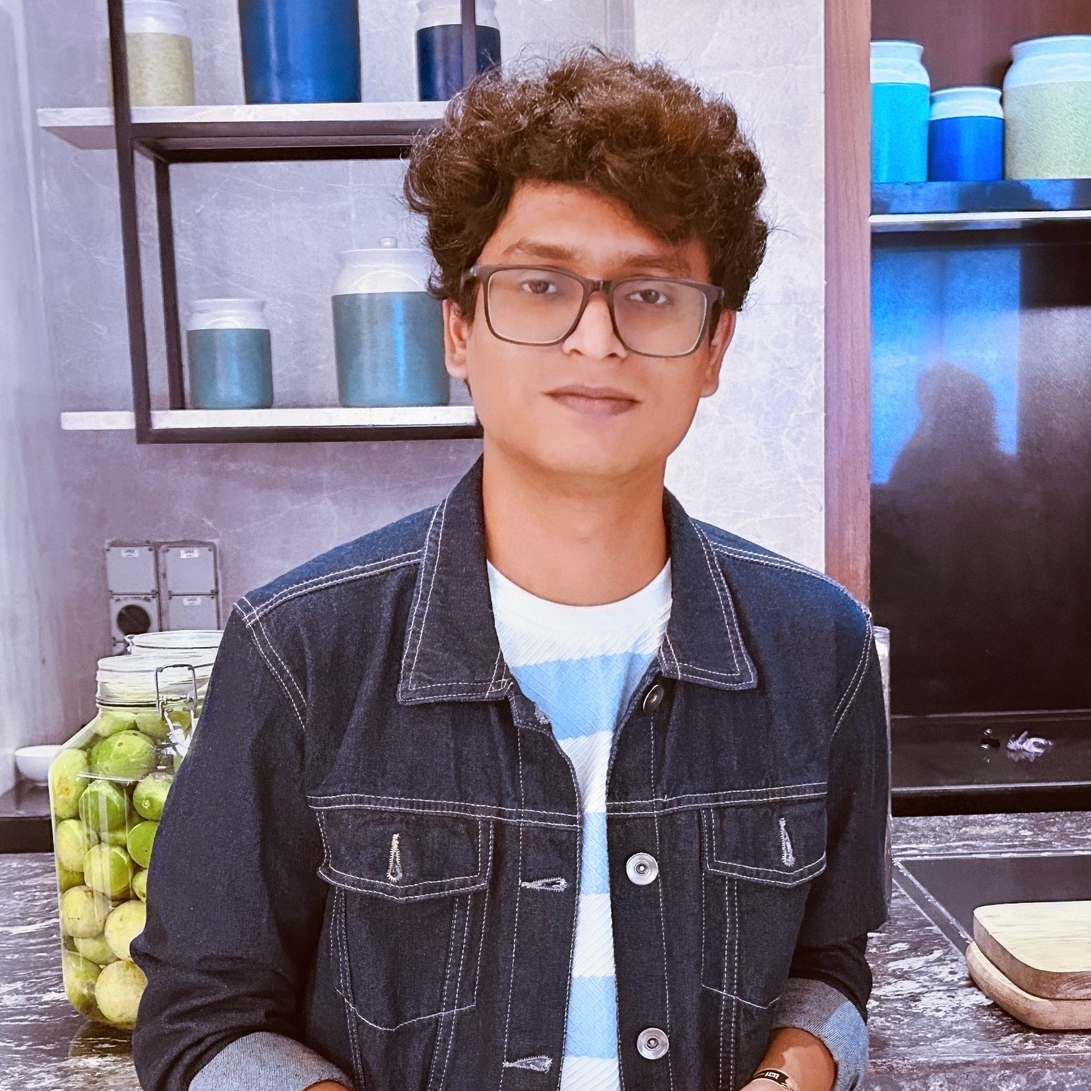
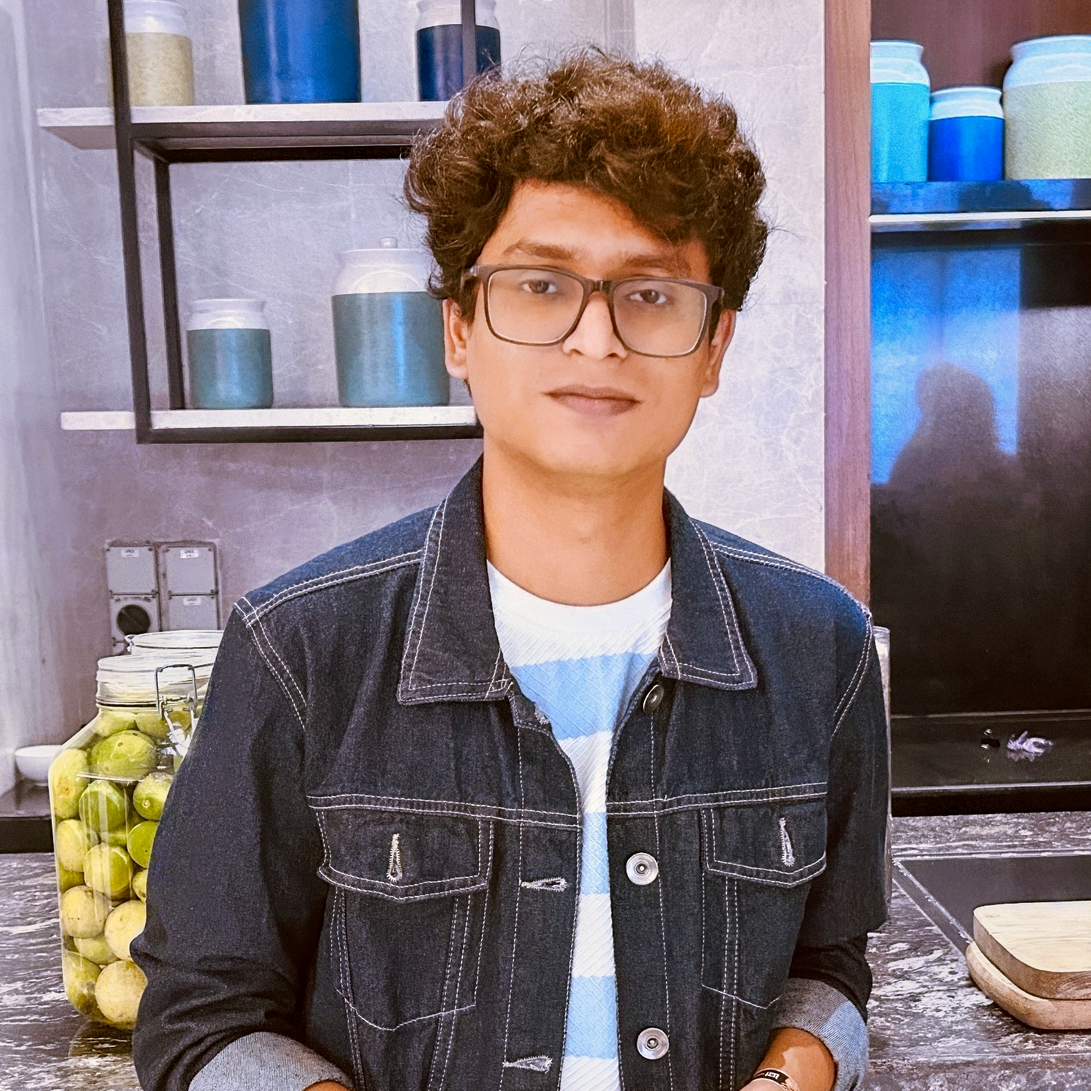
Added projects and edited profile pic

Changed region(s): [[0.0619, 0.7119, 0.1548, 0.8358], [0.8048, 0.0619, 0.8667, 0.1857], [0.7738, 0.2476, 0.8358, 0.3095]]

diff --git a/src/cardData.js b/src/cardData.js
@@ -1,31 +1,22 @@
 export const cardData = [
   {
-    heading: "Spider Man: Miles Morales",
+    heading: "Messenger",
     content:
-      "This is a good alien. You can choose this alien when the enemy is very strong. No one can face him. He is literally invincible.",
-    imgSrc: "/ProjectsPics/spiderman.jpg",
-    tags: ["React", "JS", "Front-End"],
-    isOnline: true,
-    git: "#",
-    access: "https://www.google.co.in",
-  },
-  {
-    heading: "GTA VI Best Game",
-    content:
-      "Another strong alien. This one is perfect for stealth missions and can easily take down enemies without making a sound.",
-    imgSrc: "/ProjectsPics/gta6.jpg",
-    tags: ["Node.js", "Backend", "API"],
-    isOnline: true,
-    git: "#",
-    access: "#",
-  },
-  {
-    heading: "House of the Dragon",
-    content: "A versatile alien.",
-    imgSrc: "/ProjectsPics/hotd.jpg",
-    tags: ["Python", "Data Science", "AI"],
+      "It is a full-stack, real-time messaging application designed for seamless and intuitive communication.",
+    imgSrc: "/ProjectsPics/Messenger.png",
+    tags: ["React", "Express", "MongoDB", "WebSockets", "TailWind"],
     isOnline: false,
-    git: "#",
+    git: "https://github.com/AdeebKhan25/Messenger",
     access: "#",
+  },
+  {
+    heading: "WeatherApp",
+    content:
+      "A responsive React application to search and display current weather information by city.",
+    imgSrc: "/ProjectsPics/WeatherApp.png",
+    tags: ["React", "API", "TailWind"],
+    isOnline: true,
+    git: "https://github.com/AdeebKhan25/WeatherApp",
+    access: "https://weatherapp-adeebkhan25s-projects.vercel.app/",
   },
 ];

diff --git a/src/Card.jsx b/src/Card.jsx
@@ -4,7 +4,11 @@ const Card = ({ heading, content, imgSrc, tags, isOnline, git, access }) => {
   return (
     <div className="bg-white rounded-lg shadow-xl border border-gray-300 flex flex-col h-full">
       <div className="p-4 flex-grow">
-        <img src={imgSrc} alt={heading} className="h-full w-full border" />
+        <img
+          src={imgSrc}
+          alt={heading}
+          className="h-full w-full border border-gray-300"
+        />
       </div>
       <div className="p-4 flex-grow">
         <p className="mb-3 font-medium text-2xl">{heading}</p>
